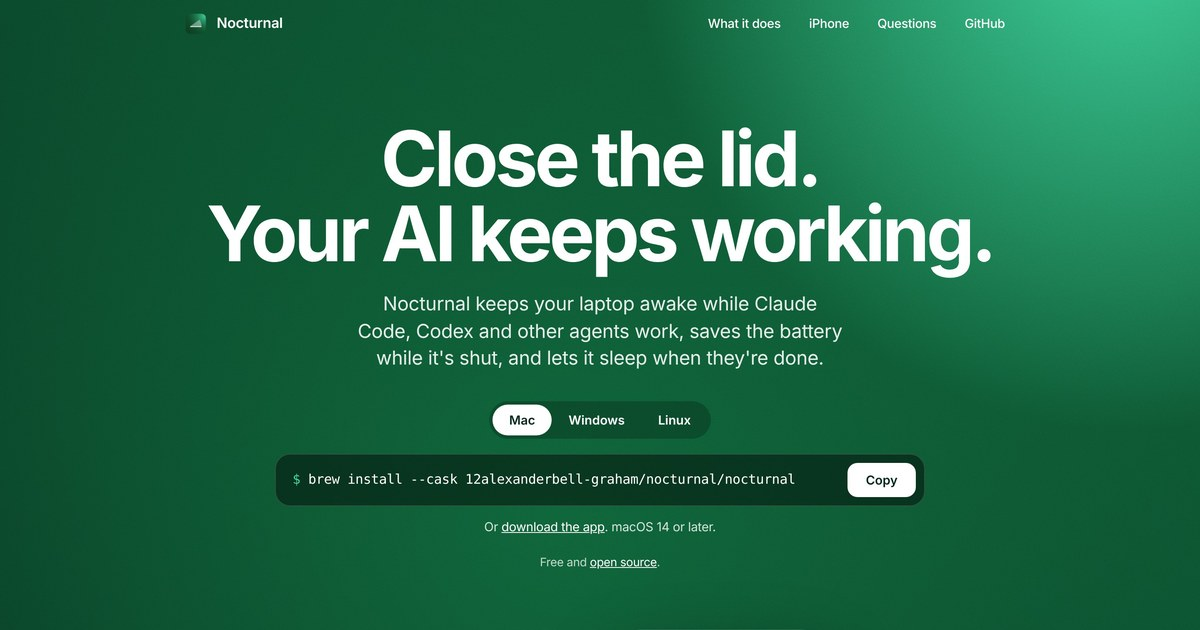
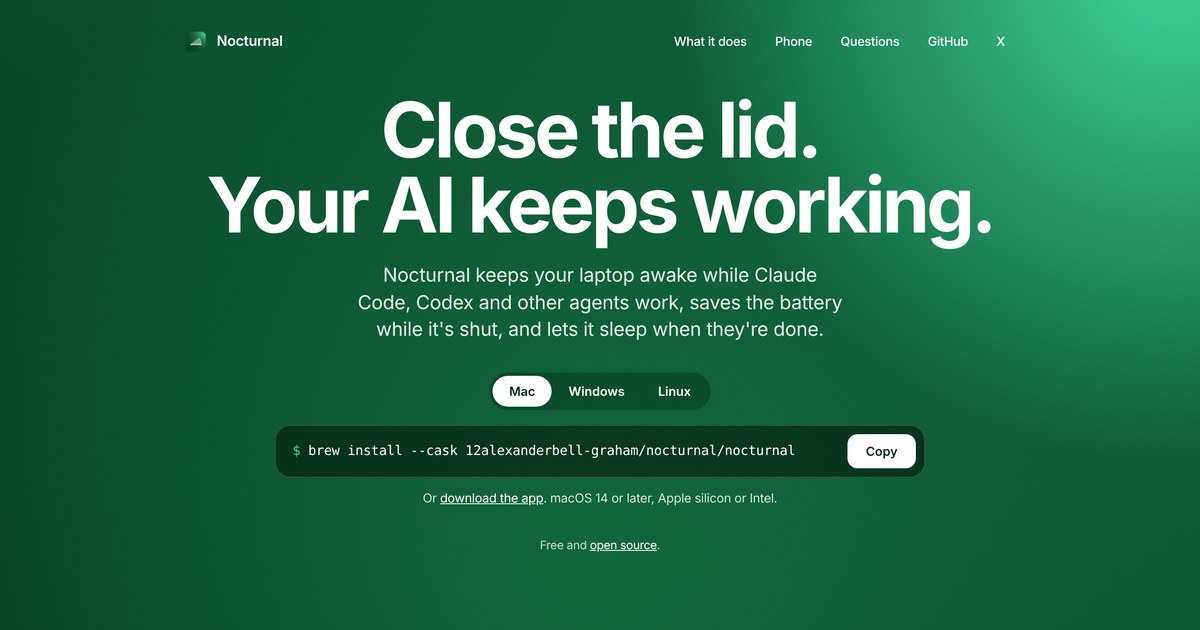
Launch copy: phone page instead of the iPhone app, first-open steps for the un-notarized Mac app, exact Windows/Linux steps
Claude-Session: https://claude.ai/code/session_01YNn7TBSiHw8UPKrDCXE23Q

Changed region(s): [[0.1542, 0.1508, 0.8325, 0.9048], [0.555, 0.0302, 0.8325, 0.0905], [0.1542, 0.0302, 0.2467, 0.0905]]

diff --git a/index.html b/index.html
@@ -4,7 +4,7 @@
 <meta charset="utf-8">
 <meta name="viewport" content="width=device-width,initial-scale=1,viewport-fit=cover">
 <title>Nocturnal: close the lid, your AI keeps working</title>
-<meta name="description" content="Nocturnal keeps your laptop awake with the lid shut while Claude Code, Codex or any AI agent works, saves the battery while it's closed, and lets it sleep when the work is done. Free for Mac, Windows and Linux, with an iPhone app to control it.">
+<meta name="description" content="Nocturnal keeps your laptop awake with the lid shut while Claude Code, Codex or any AI agent works, saves the battery while it's closed, and lets it sleep when the work is done. Free for Mac, Windows and Linux, and you can control it from your phone.">
 <meta property="og:title" content="Nocturnal: close the lid, your AI keeps working">
 <meta property="og:description" content="Keeps your laptop awake with the lid shut while your AI agents work, then lets it sleep. Free and open source.">
 <meta property="og:image" content="https://nocturnal.tools/og.jpg">
@@ -191,7 +191,7 @@
       <a class="brand" href="#"><img src="icon.png" alt="" width="30" height="30">Nocturnal</a>
       <nav aria-label="Sections">
         <a href="#does-h">What it does</a>
-        <a href="#phone-h">iPhone</a>
+        <a href="#phone-h">Phone</a>
         <a href="#faq-h">Questions</a>
         <a class="keep" href="https://github.com/12alexanderbell-graham/nocturnal">GitHub</a>
         <a href="https://x.com/12alexanderbell">X</a>
@@ -211,15 +211,16 @@
         <div class="panes">
           <div class="pane" data-pane="mac">
             <div class="cmd"><code>brew install --cask 12alexanderbell-graham/nocturnal/nocturnal</code><button class="copy" type="button">Copy</button></div>
-            <p class="note">Or <a href="downloads/Nocturnal-1.0.0-mac.zip">download the app</a>. macOS 14 or later.</p>
+            <p class="note">Or <a href="downloads/Nocturnal-1.0.0-mac.zip">download the app</a>. macOS 14 or later, Apple silicon or Intel.</p>
+            <p class="note">Not notarized by Apple yet, so the first time macOS stops it: open System Settings › Privacy &amp; Security and click <b>Open Anyway</b>.</p>
           </div>
           <div class="pane" data-pane="win" hidden>
             <a class="dl" href="downloads/Nocturnal-1.0.0-windows-x86_64.zip">Download for Windows</a>
-            <p class="note">Beta. Windows 10 or 11. Unzip, open Nocturnal; if Windows warns you, choose More info › Run anyway.</p>
+            <p class="note">Beta. Windows 10 or 11. Unzip it into a folder you'll keep and run <code>nocturnal-app.exe</code>; if Windows warns you, choose More info › Run anyway.</p>
           </div>
           <div class="pane" data-pane="linux" hidden>
             <a class="dl" href="downloads/nocturnal-1.0.0-linux-x86_64.tar.gz">Download for Linux</a>
-            <p class="note">Beta. Any distro with systemd. Unpack it and run <code>./install.sh</code>.</p>
+            <p class="note">Beta. Any distro with systemd. Unpack it and run <code>install.sh</code> from the folder; no root needed.</p>
           </div>
         </div>
         <p class="fine">Free and <a href="https://github.com/12alexanderbell-graham/nocturnal">open source</a>.</p>
@@ -228,7 +229,7 @@
 
     <div class="stage" aria-hidden="false">
       <figure class="mac rise-in" style="margin:0"><img src="panel-now.png" alt="Nocturnal's menu on the Mac: Keeps working, battery and hours left, Off / When Busy / Always, Approve all, Phone and Lid shut" width="640" height="766"></figure>
-      <figure class="phone rise-in" style="margin:0"><img src="phone.jpg" alt="The Nocturnal iPhone app: Keeps working, battery, watts and hours left, this week's savings, and the keep-awake band" width="780" height="1696"></figure>
+      <figure class="phone rise-in" style="margin:0"><img src="phone-web.jpg" alt="Nocturnal's phone page: Keeps working, battery, watts and hours left, and Off / When Busy / Always" width="780" height="1688"></figure>
     </div>
   </div>
 </header>
@@ -277,16 +278,16 @@
 
   <section class="phone-sec" aria-labelledby="phone-h">
     <div class="phones">
-      <img src="phone.jpg" alt="The iPhone app's main screen" width="780" height="1696" loading="lazy">
-      <img src="phone-settings.jpg" alt="The iPhone app's settings: what keeps it awake, agents, apps and every setting" width="780" height="1696" loading="lazy">
+      <img src="phone-web.jpg" alt="The phone page's main screen" width="780" height="1688" loading="lazy">
+      <img src="phone-web-settings.jpg" alt="The phone page's settings: agents, apps that keep it awake, and what happens with the lid shut" width="780" height="1688" loading="lazy">
     </div>
     <div>
       <h2 id="phone-h">Control it from your phone</h2>
-      <p class="sub">Everything the menu bar does, from anywhere: how long it stays awake, Sleep, which apps keep it awake or get paused, and every setting. Turn on check-ins and a sleeping laptop picks up a wake from your phone at the next one, every 15, 30 or 60 minutes.</p>
+      <p class="sub">From anywhere: how long it stays awake, Sleep, which agents and apps keep it awake, and what happens with the lid shut. Turn on check-ins and a sleeping laptop picks up a wake from your phone at the next one, every 15, 30 or 60 minutes.</p>
       <ul class="ticks">
-        <li><b>iPhone app</b>: coming to the App Store.</li>
-        <li><b>Any phone, today</b>: <a href="remote/">the phone page</a>. Add it to your Home Screen and it opens like an app.</li>
-        <li>On your computer, open Nocturnal and choose <b>Pair a Phone</b>. End-to-end encrypted, with a key for each phone you can revoke.</li>
+        <li><b>Any phone</b>: open <a href="remote/">nocturnal.tools/remote</a> and add it to your Home Screen. It opens like an app.</li>
+        <li>On your computer, open Nocturnal and choose <b>Pair a Phone</b>, then scan the code. End-to-end encrypted, with a key for each phone you can revoke.</li>
+        <li><b>iPhone app</b>: coming later.</li>
       </ul>
     </div>
   </section>
@@ -296,7 +297,7 @@
     <div class="faq">
       <details><summary>Is it safe in a bag?</summary><div class="a"><p>It sleeps if it gets hot or the battery reaches your limit. The heat guard and battery limit can't be loosened by an agent or the phone.</p></div></details>
       <details><summary>What does it change?</summary><div class="a"><p>Sleep, Low Power Mode, screen brightness and idle apps, only while the lid is shut. Opening the lid puts it all back.</p></div></details>
-      <details><summary>Can my AI agent control it?</summary><div class="a">
+      <details id="ai-h"><summary>Can my AI agent control it?</summary><div class="a">
         <p>Yes. Connect it in Settings › Agents, then give your agent this prompt.</p>
         <div class="prompt"><pre id="prompt">Nocturnal is installed on this laptop. It keeps the machine awake with the lid closed while you work, and cuts power use while the lid is shut. You can control all of it through the nocturnal MCP tools (or the nocturnal command). Set it up for me:
 1. Read Nocturnal's settings and power report to see every setting and what is using power right now.
@@ -308,6 +309,7 @@ Never turn off the heat guard or lower the battery limit; Nocturnal won't let yo
         <button class="btn" id="copy-prompt" type="button">Copy the prompt</button>
       </div></details>
       <details><summary>Windows and Linux?</summary><div class="a"><p>Both work, in beta: the same engine as the Mac, with a tray icon instead of the menu bar panel. Measuring savings is Mac-only for now.</p></div></details>
+      <details><summary>Why does macOS say it can't verify Nocturnal?</summary><div class="a"><p>Nocturnal isn't notarized by Apple yet. The first time you open it, macOS blocks it: open System Settings › Privacy &amp; Security, scroll down, click Open Anyway next to Nocturnal and confirm. You only do this once.</p></div></details>
       <details><summary>Why does it ask for a password?</summary><div class="a"><p>Once, on the Mac, to allow only the few commands that switch sleep and Low Power Mode. Delete the app and that permission removes itself.</p></div></details>
       <details><summary>Lost internet with the lid shut?</summary><div class="a"><p>On an iPhone hotspot, set System Settings › Wi‑Fi › Ask to join hotspots to Automatic.</p></div></details>
       <details><summary>Is it free?</summary><div class="a"><p>Yes, and <a href="https://github.com/12alexanderbell-graham/nocturnal">open source</a> under the MIT licence.</p></div></details>
@@ -328,7 +330,7 @@ Never turn off the heat guard or lower the battery limit; Nocturnal won't let yo
       <div class="panes">
         <div class="pane" data-pane="mac">
           <div class="cmd"><code>brew install --cask 12alexanderbell-graham/nocturnal/nocturnal</code><button class="copy" type="button">Copy</button></div>
-          <p class="note">Or <a href="downloads/Nocturnal-1.0.0-mac.zip">download the app</a>.</p>
+          <p class="note">Or <a href="downloads/Nocturnal-1.0.0-mac.zip">download the app</a>. The first time, macOS asks you to allow it in System Settings › Privacy &amp; Security.</p>
         </div>
         <div class="pane" data-pane="win" hidden><a class="dl" href="downloads/Nocturnal-1.0.0-windows-x86_64.zip">Download for Windows</a></div>
         <div class="pane" data-pane="linux" hidden><a class="dl" href="downloads/nocturnal-1.0.0-linux-x86_64.tar.gz">Download for Linux</a></div>

diff --git a/privacy.html b/privacy.html
@@ -23,7 +23,7 @@
 <body>
 <main>
   <h1>Privacy</h1>
-  <p>For Nocturnal on Mac, Windows and Linux, the phone page at nocturnal.tools/remote, and the Nocturnal iPhone app.</p>
+  <p>For Nocturnal on Mac, Windows and Linux, the phone page at nocturnal.tools/remote, and the Nocturnal iPhone app (coming later).</p>
   <div class="card">Nocturnal collects nothing about you. No accounts, no analytics, no tracking, no ads.</div>
 
   <h2>On your computer</h2>
